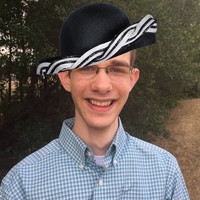
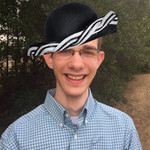
resized images and fixed images not rendering

diff --git a/PITCHME.md b/PITCHME.md
@@ -4,7 +4,7 @@ Raul Camacho, William Han, Palak Hirpara, Minwoo Jo, Benjamin Singer, Michael Ti
 ---
 ### Raul Camacho
 ##### *Camacho Style Sheets*
-![Raul!](images/raul-adams.jpg)
+![Raul!](images/raul-adams.png)
 
 **Responsibilities:**
 * Frontend design and CSS
@@ -23,7 +23,7 @@ Raul Camacho, William Han, Palak Hirpara, Minwoo Jo, Benjamin Singer, Michael Ti
 ---
 ### Palak Hirpara
 ##### *The Decider*
-![Palak!](images/palak-adams.jpg)
+![Palak!](images/palak-adams.png)
 
 **Responsibilities:**
 * Representatives frontend and backend
@@ -33,7 +33,7 @@ Raul Camacho, William Han, Palak Hirpara, Minwoo Jo, Benjamin Singer, Michael Ti
 ---
 ### Minwoo Jo
 ##### *MJ*
-![Minwoo!](images/minwoo-adams.jpg)
+![Minwoo!](images/minwoo-adams.png)
 
 **Responsibilities:**
 * District frontend and backend
